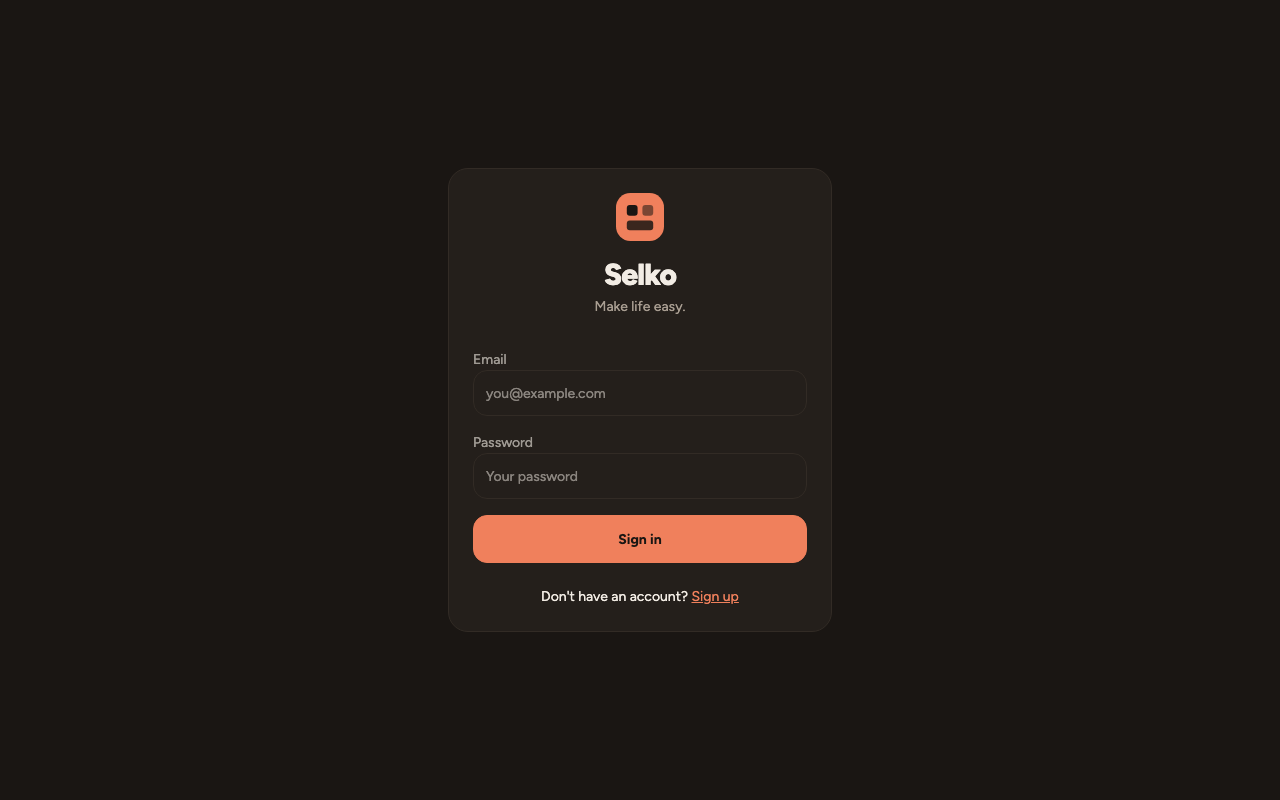
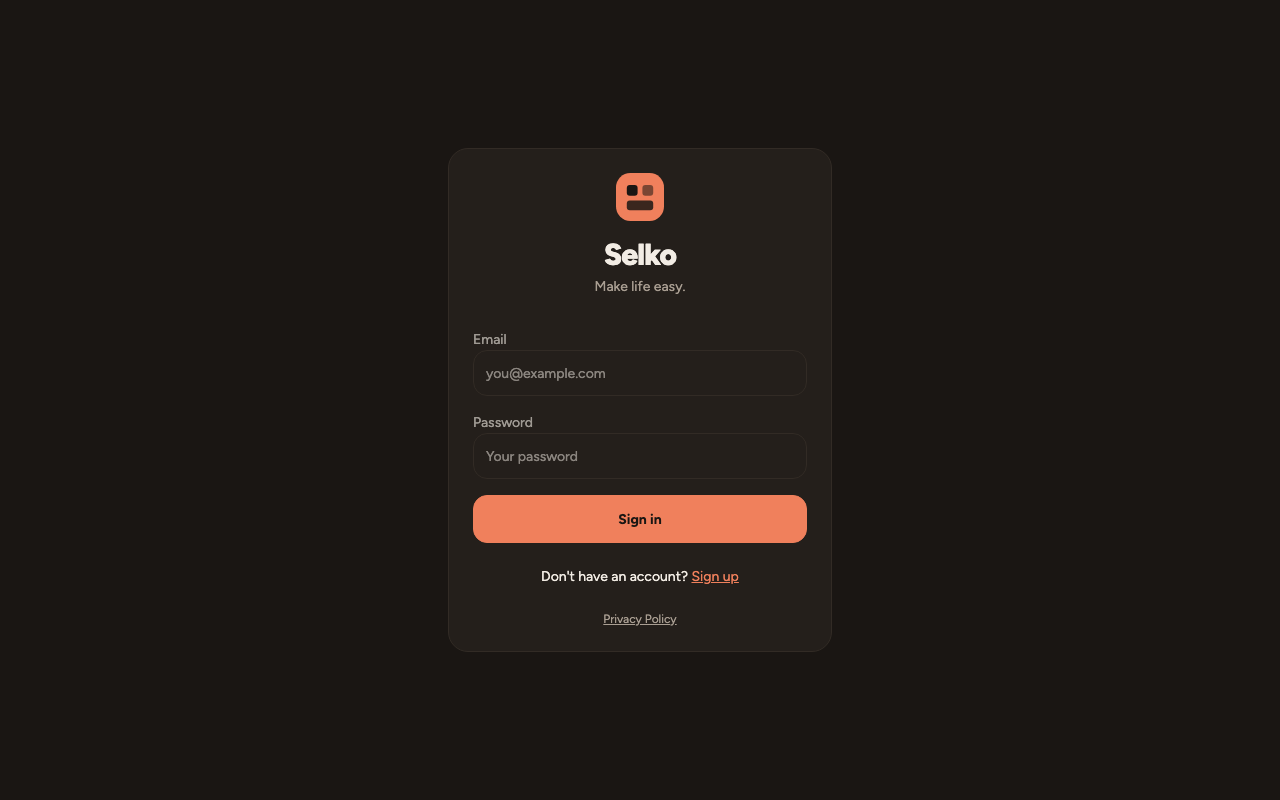
feat(web): add a public privacy policy at /privacy
Google will not move the OAuth consent screen out of Testing without a
privacy policy URL, and Testing expires refresh tokens after 7 days.
/privacy and /terms answered 200 only because the SPA fallback serves
the 404 page with a success status.

The page carries the Google API Services User Data Policy / Limited Use
disclosure, names every processor (Supabase, Render, Anthropic, Google,
Microsoft), and gives deletion-by-email since there is no self-serve
account deletion. Sign-in and sign-up link to it, because / redirects
to /login and the consent-screen home page must lead to the policy.

Changed region(s): [[0.3438, 0.4062, 0.6562, 0.7812], [0.4688, 0.2188, 0.5312, 0.4062]]

diff --git a/frontend/src/routes/privacy/+page.svelte b/frontend/src/routes/privacy/+page.svelte
@@ -1,0 +1,171 @@
+<script>
+	import LogoMark from '$lib/components/LogoMark.svelte';
+
+	const contactEmail = 'toni.melisma@gmail.com';
+	const lastUpdated = 'October 31, 2026';
+</script>
+
+<svelte:head>
+	<title>Privacy Policy · Selko</title>
+	<meta name="description" content="How Selko collects, uses, stores and deletes your data." />
+</svelte:head>
+
+<main id="main-content" class="mx-auto max-w-2xl px-4 py-10 sm:py-14">
+	<a href="/" class="mb-8 inline-flex items-center gap-2 text-base-content">
+		<LogoMark size={32} />
+		<span class="text-xl font-extrabold tracking-tight">Selko</span>
+	</a>
+
+	<h1 class="text-3xl font-extrabold tracking-tight">Privacy Policy</h1>
+	<p class="mt-2 text-sm text-base-content/60">Last updated {lastUpdated}</p>
+
+	<div class="mt-8 space-y-8 leading-relaxed">
+		<section>
+			<p>
+				Selko reads the email accounts you connect, finds the events in them, and helps you put
+				those events on your calendar. This policy explains what data that involves, what we do
+				with it, who else handles it, and how to have it deleted.
+			</p>
+		</section>
+
+		<section>
+			<h2 class="text-xl font-bold">What we collect</h2>
+			<ul class="mt-3 list-disc space-y-2 pl-6">
+				<li>
+					<strong>Your account:</strong> your email address and a password, which our
+					authentication provider stores hashed.
+				</li>
+				<li>
+					<strong>Email you connect:</strong> when you connect Gmail or Outlook, Selko reads
+					messages in the folders you include: headers, body text, calendar invitations and
+					attachments.
+				</li>
+				<li>
+					<strong>Your calendar:</strong> when you connect Google Calendar, Selko creates,
+					updates and cancels the events you approve.
+				</li>
+				<li>
+					<strong>Connection tokens:</strong> the OAuth tokens Google or Microsoft issue so Selko
+					can keep reading your mail without asking you to sign in again.
+				</li>
+				<li>
+					<strong>What Selko derives:</strong> the events it extracts, your review decisions,
+					and a processing history for each email.
+				</li>
+			</ul>
+		</section>
+
+		<section>
+			<h2 class="text-xl font-bold">How we use it</h2>
+			<p class="mt-3">
+				We use your data only to provide Selko to you: to find events in your email, show them to
+				you for review, and keep your calendar in step with what you approve. We do not sell your
+				data, use it for advertising, or use it to build profiles of you. People do not read your
+				email, except with your explicit permission for a specific message, when it is needed for
+				security or to comply with the law.
+			</p>
+		</section>
+
+		<section>
+			<h2 class="text-xl font-bold">Google user data</h2>
+			<p class="mt-3">
+				Selko's use and transfer of information received from Google APIs to any other app will
+				adhere to the
+				<a
+					class="link link-primary"
+					href="https://developers.google.com/terms/api-services-user-data-policy"
+					rel="noopener noreferrer"
+					target="_blank">Google API Services User Data Policy</a
+				>, including the Limited Use requirements.
+			</p>
+			<p class="mt-3">
+				Selko requests read-only access to Gmail and access to manage events on Google Calendar.
+				Gmail data is used only to find and update calendar events for you, and is transferred to
+				others only as described under "Who else handles your data" below, which is needed to
+				provide that feature. It is never used to train general-purpose AI models.
+			</p>
+		</section>
+
+		<section>
+			<h2 class="text-xl font-bold">AI processing</h2>
+			<p class="mt-3">
+				Selko uses large language models to read emails and attachments and extract events. The
+				content of an email is sent to an AI provider's API for that purpose only. We use paid API
+				services whose terms do not allow the provider to train its models on what we send.
+			</p>
+		</section>
+
+		<section>
+			<h2 class="text-xl font-bold">Who else handles your data</h2>
+			<p class="mt-3">We share data only with the service providers that run Selko for us:</p>
+			<ul class="mt-3 list-disc space-y-2 pl-6">
+				<li><strong>Supabase:</strong> database, file storage and sign-in.</li>
+				<li><strong>Render:</strong> hosting for the Selko web app and server.</li>
+				<li>
+					<strong>Anthropic:</strong> the AI model that extracts events from email content.
+				</li>
+				<li>
+					<strong>Google:</strong> Gmail and Google Calendar for the accounts you connect, and
+					the Gemini API as a backup AI model when Anthropic's is unavailable.
+				</li>
+				<li><strong>Microsoft:</strong> Outlook mail for the accounts you connect.</li>
+			</ul>
+			<p class="mt-3">
+				We may also disclose data if the law requires it, or to a successor if Selko is
+				transferred, in which case this policy continues to apply to your data.
+			</p>
+		</section>
+
+		<section>
+			<h2 class="text-xl font-bold">Storage and security</h2>
+			<p class="mt-3">
+				Data is encrypted in transit and stored with providers that encrypt it at rest. Each user
+				can read only their own records. Connection tokens are used only by Selko's server.
+			</p>
+		</section>
+
+		<section>
+			<h2 class="text-xl font-bold">Keeping and deleting your data</h2>
+			<p class="mt-3">
+				We keep your data while your account exists. You can disconnect an email or calendar
+				account in Settings at any time, which stops Selko reading it. You can also remove
+				Selko's access from your
+				<a
+					class="link link-primary"
+					href="https://myaccount.google.com/connections"
+					rel="noopener noreferrer"
+					target="_blank">Google account</a
+				>
+				or Microsoft account.
+			</p>
+			<p class="mt-3">
+				To delete your account and all of its data, email
+				<a class="link link-primary" href="mailto:{contactEmail}">{contactEmail}</a> from the address
+				you signed up with. We delete it within 30 days, including stored email content, extracted
+				events and connection tokens. Events Selko already added to your calendar stay there
+				unless you remove them.
+			</p>
+		</section>
+
+		<section>
+			<h2 class="text-xl font-bold">Children</h2>
+			<p class="mt-3">Selko is not intended for anyone under 16.</p>
+		</section>
+
+		<section>
+			<h2 class="text-xl font-bold">Changes</h2>
+			<p class="mt-3">
+				If we change this policy, we will update the date above, and tell you in the app or by
+				email before a change that affects how your existing data is used.
+			</p>
+		</section>
+
+		<section>
+			<h2 class="text-xl font-bold">Contact</h2>
+			<p class="mt-3">
+				Questions about privacy:
+				<a class="link link-primary" href="mailto:{contactEmail}">{contactEmail}</a>.
+			</p>
+		</section>
+	</div>
+</main>

diff --git a/frontend/src/routes/privacy/__tests__/page.test.js b/frontend/src/routes/privacy/__tests__/page.test.js
@@ -1,0 +1,38 @@
+// @ts-nocheck
+import { describe, it, expect } from 'vitest';
+import { render, screen } from '@testing-library/svelte';
+
+const { default: PrivacyPage } = await import('../+page.svelte');
+
+describe('Privacy Policy Page', () => {
+	it('renders without a signed-in user', () => {
+		render(PrivacyPage);
+
+		expect(screen.getByRole('heading', { level: 1, name: /privacy policy/i })).toBeInTheDocument();
+	});
+
+	it('carries the Google Limited Use disclosure', () => {
+		render(PrivacyPage);
+
+		// Google's OAuth review looks for this disclosure and the policy link.
+		expect(screen.getByText(/including the Limited Use requirements/i)).toBeInTheDocument();
+		expect(
+			screen.getByRole('link', { name: /google api services user data policy/i })
+		).toHaveAttribute('href', 'https://developers.google.com/terms/api-services-user-data-policy');
+	});
+
+	it('names every service provider that handles user data', () => {
+		render(PrivacyPage);
+
+		for (const provider of ['Supabase:', 'Render:', 'Anthropic:', 'Google:', 'Microsoft:']) {
+			expect(screen.getByText(provider)).toBeInTheDocument();
+		}
+	});
+
+	it('gives a way to request deletion', () => {
+		render(PrivacyPage);
+
+		const contacts = screen.getAllByRole('link', { name: 'toni.melisma@gmail.com' });
+		expect(contacts[0]).toHaveAttribute('href', 'mailto:toni.melisma@gmail.com');
+	});
+});

diff --git a/frontend/src/routes/login/__tests__/page.test.js b/frontend/src/routes/login/__tests__/page.test.js
@@ -44,6 +44,13 @@ describe('Login Page', () => {
 		expect(registerLink).toHaveAttribute('href', '/register');
 	});
 
+	it('links to the privacy policy', () => {
+		render(LoginPage);
+
+		const privacyLink = screen.getByRole('link', { name: /privacy policy/i });
+		expect(privacyLink).toHaveAttribute('href', '/privacy');
+	});
+
 	it('submits credentials to Supabase on form submission', async () => {
 		const user = userEvent.setup();
 		mockSignInWithPassword.mockResolvedValue({

diff --git a/frontend/src/routes/login/+page.svelte b/frontend/src/routes/login/+page.svelte
@@ -90,6 +90,10 @@
 				{$_('auth.noAccount')}
 				<a href="/register" class="link link-primary">{$_('auth.signUp')}</a>
 			</p>
+
+			<p class="text-center text-xs mt-4">
+				<a href="/privacy" class="link text-base-content/60">{$_('auth.privacyPolicy')}</a>
+			</p>
 		</div>
 	</div>
 </div>

diff --git a/frontend/src/routes/register/+page.svelte b/frontend/src/routes/register/+page.svelte
@@ -132,6 +132,10 @@
 					<a href="/login" class="link link-primary">{$_('auth.logIn')}</a>
 				</p>
 			{/if}
+
+			<p class="text-center text-xs mt-4">
+				<a href="/privacy" class="link text-base-content/60">{$_('auth.privacyPolicy')}</a>
+			</p>
 		</div>
 	</div>
 </div>
